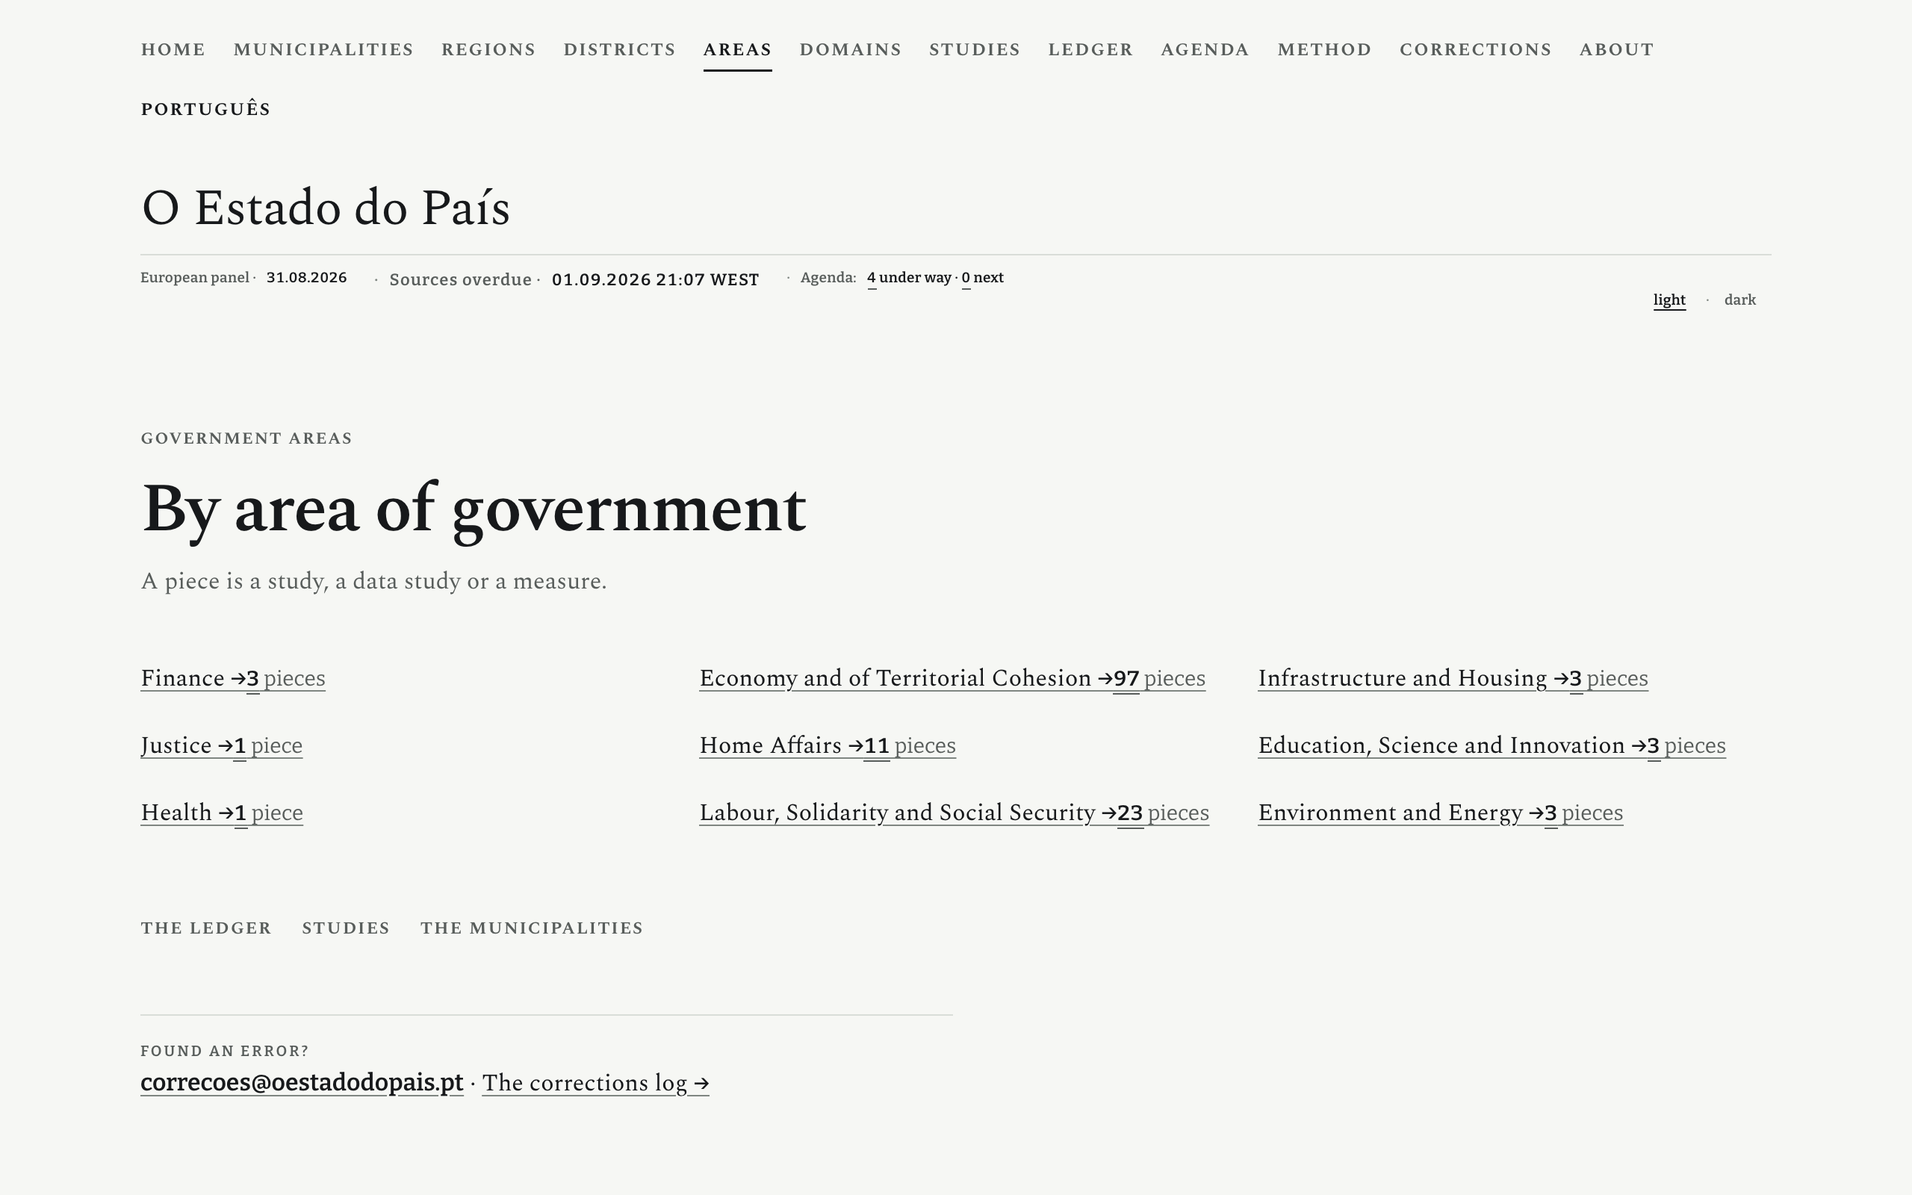
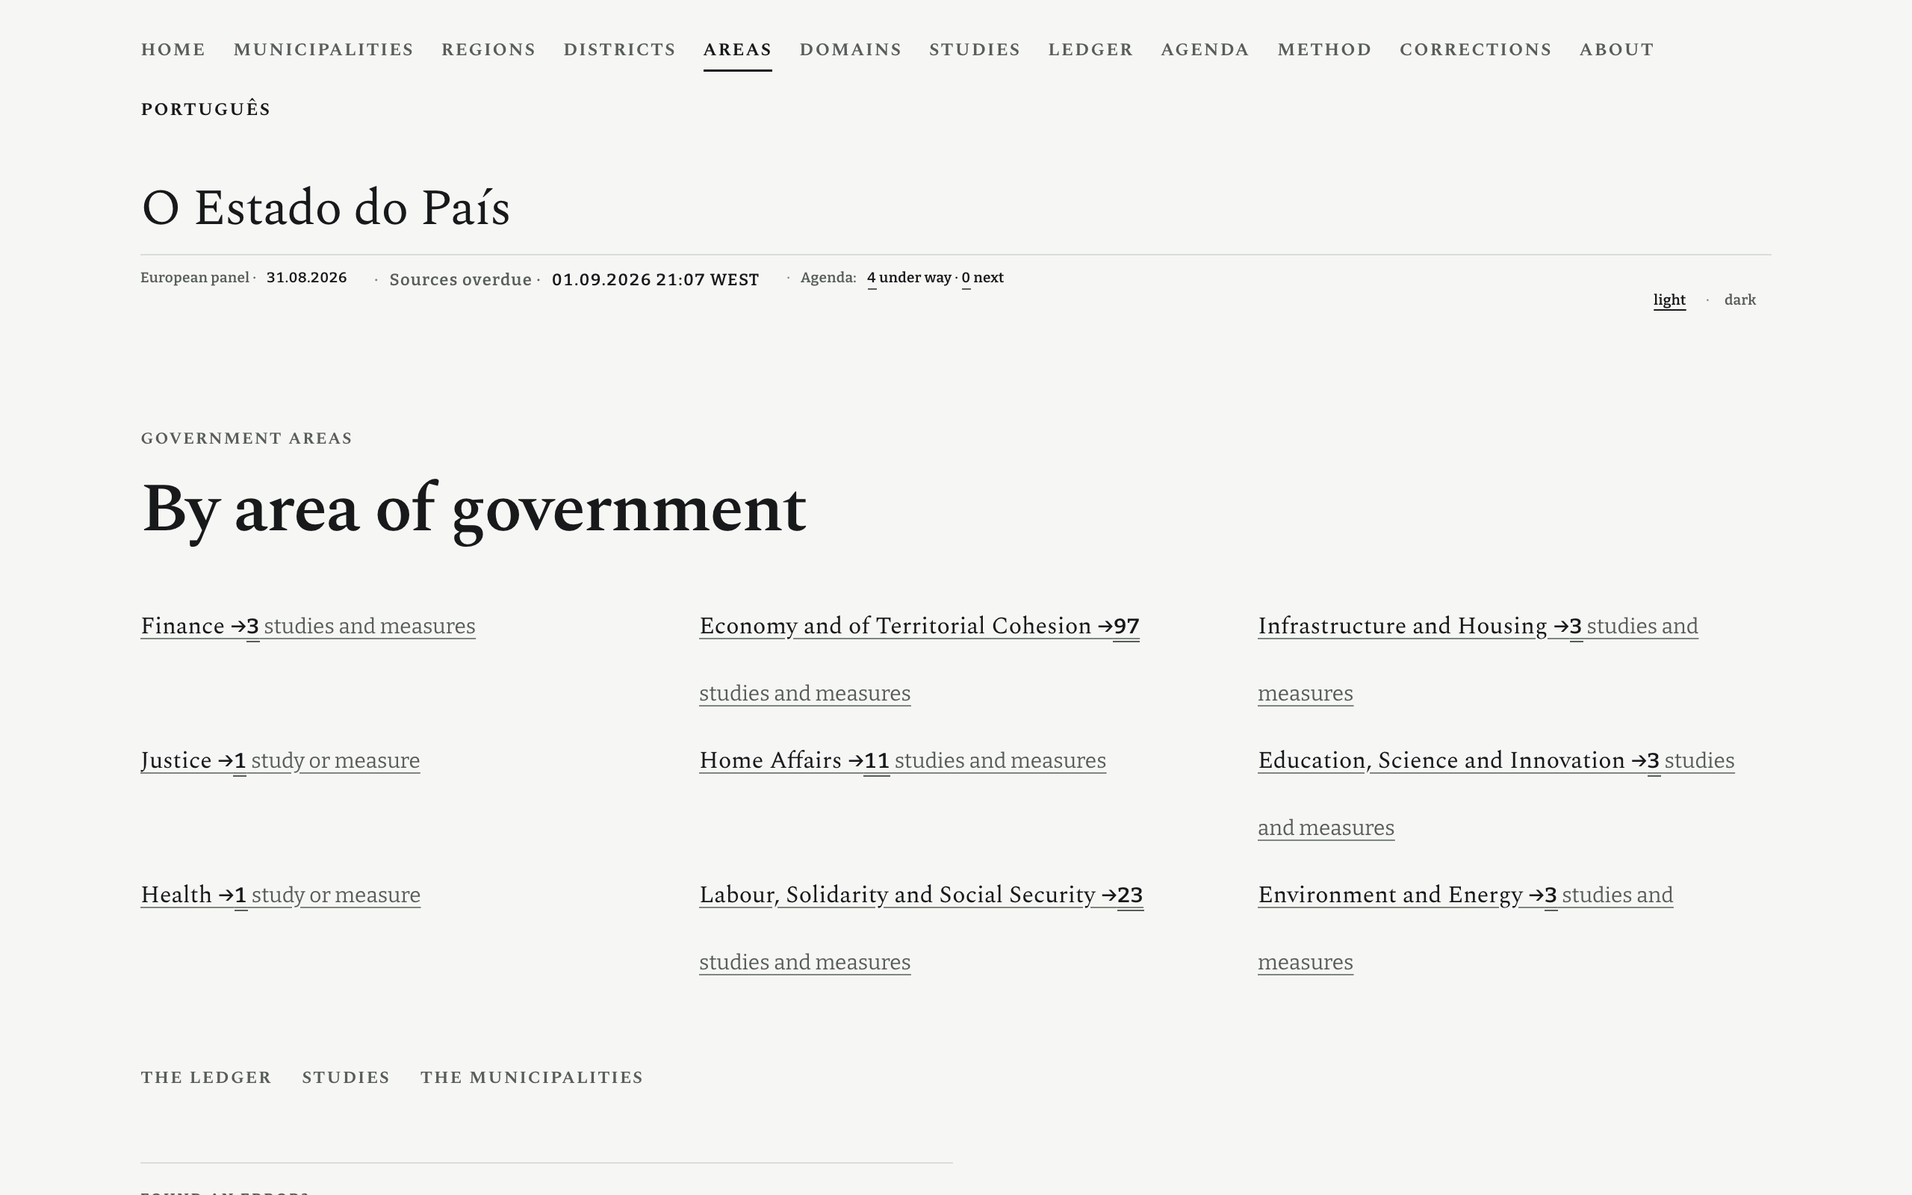
F1.4: «peça» sai do rótulo da contagem das áreas, pela §1.98
A `DECISIONS.md` §1.98, de 04.09.2026, fecha o vocabulário da casa: «estudo»
para um trabalho de autor, «medida» para uma medida, «linha do livro-razão» para
uma linha; «peça» e «indicador» saem. A decisão chegou a meio deste bloco e troca
a saída do item 5 do brief: em vez de definir a palavra na página onde ela se
conta, tira-se a palavra.

A contagem de cada área soma três famílias, os trabalhos, os estudos de dados e
as medidas, e as três dizem-se com duas palavras do vocabulário: «Saúde ·
6 estudos e medidas». No singular, «estudo ou medida», porque com uma só não se
sabe qual das duas é e escolher uma era adivinhar.

Saem com a palavra: a chave da definição, a classe da folha que a compunha e as
duas linhas do inventário que a declaravam. Nenhuma chave nova entra; duas que já
existiam mudam de texto, e o `CHAVES-EN.md` escreve o antes e o depois das duas
edições.

A célula I4 da régua muda com a decisão: media «a palavra tem definição na página
onde aparece» e passa a medir «a palavra não está no rótulo da contagem». As 16
ocorrências que ficam noutras páginas (o Método, o Sobre e três documentos
alojados) contam-se à parte e são do bloco F1.10, que faz a passagem por todo o
sítio.

As oito capturas do índice das áreas foram refeitas sobre esta construção.

Claude-Session: https://claude.ai/code/session_01X64Dqde6VdBwkxzdt92iEv

diff --git a/src/styles/area.css b/src/styles/area.css
@@ -32,15 +32,6 @@
   color: var(--muted);
 }
 
-/* A linha que define a palavra contada (bloco F1.4). É prosa, e compõe-se como
-   prosa: a mesma letra e o mesmo corpo da lede das outras páginas, sem caixa e
-   sem cor. */
-.areas-definicao {
-  margin-top: 10px;
-  max-width: 52ch;
-  color: var(--muted);
-}
-
 /* --------------------------------------------------------------- o índice */
 
 /* A mesma fila de nomes do índice das 29 unidades, com a altura de alvo da casa

diff --git a/design/especime-v3/medicoes/nomes-construtor.md b/design/especime-v3/medicoes/nomes-construtor.md
@@ -1,9 +1,9 @@
 # F1.4 · os nomes humanos, as datas, o índice do livro-razão · relatório do construtor
 
 *Ramo `nomes-2026-09-04`, tirado de `origin/main` em `86632082` e fundido com
-`8b2bbafc` (o F1.2b) antes de qualquer alteração; `1dbd1cef` (registo, sem
-código) e `741e4915` (o `engines.node` e a regra do Vercel) fundidos antes do
-empurrão. Construtor Claude Opus 5, 04.09.2026. O bloco
+`8b2bbafc` (o F1.2b) antes de qualquer alteração; `1dbd1cef` (registo),
+`741e4915` (o `engines.node` e a regra do Vercel) e `4624db04` (a §1.98, que
+fecha o vocabulário e muda o item 5 deste bloco) fundidos antes do empurrão. Construtor Claude Opus 5, 04.09.2026. O bloco
 é o F1.4 de `design/observatorio/BRIEF-F1.4-nomes-datas-indice.md`, e a origem é
 a auditoria de 02.09 (`AUDITORIA-2026-09-02.md`, linhas 66, 67, 68 e 72). Sem
 travessões na prosa.*
@@ -15,8 +15,8 @@ do diretor ou do motor.** Em números medidos sobre as duas construções:
 **484 entradas** do índice do livro-razão e das páginas de área deixaram de se
 chamar pelo nome da máquina, e **460 ganharam um nome humano**; **28 300 datas
 ISO à vista** passaram a **0**; o índice ganhou uma busca e as suas duas parcelas
-ganharam denominador; «peça» ganhou definição na página onde se conta; a página
-de cada uma das 29 unidades da Carta passa a dizer o que tem.
+ganharam denominador; «peça» saiu do rótulo da contagem das áreas, pela §1.98; a
+página de cada uma das 29 unidades da Carta passa a dizer o que tem.
 
 **Nenhum número novo entrou**, e não é uma afirmação: é uma comparação. O
 inventário dos valores selados e dos motivos declarados de todo o `dist/` foi
@@ -112,12 +112,20 @@ A lista dos campos que são datas está declarada em `src/lib/datas.mjs`
 tudo o que parece uma data converteria uma edição de documento («2025-12») e um
 localizador que a fonte escreveu assim.
 
-Três outros portões aprenderam a mesma regra, cada um com a sua cópia local
-(nunca a função do gabarito, que confirmaria a função e não o registo):
+Quatro outras conferências aprenderam a mesma regra, cada uma com a sua cópia
+local (nunca a função do gabarito, que confirmaria a função e não o registo):
 
 * `gate:html`, para a data de uma entrada do registo de correções
   (`data-correcao-campo="date"` passa do modo `exacto` ao modo `data`);
 * `gate:html`, para os campos do registo da agenda que SÃO uma data inteira;
+* `gate:html`, para uma chave da PROVA cujo valor é uma data. Hoje há uma,
+  `painel_reconferido_em`, e era a última data ISO à vista do sítio depois de as
+  outras 28 300 terem convertido: saía no Método, dentro do instrumento do
+  mecanismo e na linha da regra. O comentário do portão dizia «uma data é ISO», e
+  passa a dizer o que a §1.91 diz;
+* `gate:html`, para o mesmo valor DENTRO de um cartão de partilha, porque um
+  cartão é a mesma coisa vista de fora e duas grafias da mesma data seriam duas
+  casas;
 * `check:formas` F1, que ganhou os dois caminhos do instantâneo do alojamento.
 
 **O período de referência continua como a fonte o publica.** `dataDaCasa()`
@@ -175,17 +183,27 @@ vivem em `src/views/LivroView.astro`. As três que viviam no `Masthead`
 hoje são as duas leituras da agenda, que têm a sua página. Um ficheiro que o
 F1.2b também toca ficou por tocar, e é uma fusão a menos.
 
-### 2.5 · «Peça» definida (item 5)
+### 2.5 · «Peça» sai (item 5, com a §1.98 a decidir qual das duas saídas)
 
-A palavra ganha uma definição na página onde aparece («Uma peça é um trabalho,
-um estudo de dados ou uma medida.» · «A piece is a study, a data study or a
-measure.»), e as três palavras da definição são os três títulos de grupo que a
-página de uma área já usa. A definição não acrescenta vocabulário: desfaz.
+O brief dava duas saídas: definir a palavra na página onde aparece, ou tirá-la e
+pôr uma que o inventário já tenha. Este bloco tinha escolhido a primeira e
+escrito a definição; a **`DECISIONS.md` §1.98, de 04.09.2026, chegou a meio** e
+escolhe a segunda por todo o sítio: o vocabulário fechado da casa tem «estudo»
+para um trabalho de autor, «medida» para uma medida e «linha do livro-razão» para
+uma linha, e «peça» e «indicador» saem.
 
-A alternativa era tirar a palavra, e não havia por onde: a contagem é uma só
-sobre três famílias, e o inventário da voz não tem substantivo que as cubra às
-três. Trocar uma palavra por confirmar por outra por confirmar não era ganhar
-nada.
+**A contagem passa a dizer o que conta.** `areasComPecas()` soma três famílias:
+os trabalhos, os estudos de dados e as medidas de cada área. As três dizem-se com
+duas palavras do vocabulário, e é isso que o rótulo passa a dizer: «Saúde ·
+6 estudos e medidas». No singular, «estudo ou medida», porque com uma só não se
+sabe qual das duas é e escolher uma era adivinhar.
+
+**Duas chaves mudaram de texto, e nenhuma chave nova entrou.** `areas.contaUma` e
+`areas.contaMuitas` já existiam; a definição que este bloco tinha escrito
+(`areas.pecaDefinicao`) saiu com a classe do CSS e com as duas linhas do
+inventário. A passagem por todo o sítio (o Método, o Sobre, os documentos
+alojados) é do **bloco F1.10**, e a régua deste bloco conta essas 16 ocorrências
+à parte, para que não fiquem em silêncio.
 
 ### 2.6 · O marcador com um destino (item 6)
 
@@ -257,7 +275,7 @@ correu com `--contra` sobre o «antes», que é o que fecha o G10.
 | G1 | o nome de uma medida não é o identificador | **484 de 560 entradas** encabeçadas pelo identificador (129 no índice do livro-razão e 113 nas páginas de área, em cada edição); 76 com nome; 0 identificadores em metadado | **0 entradas** encabeçadas pelo identificador; **460 com nome**; 100 sem nome (26 no índice e 24 nas páginas de área, por edição: as derivadas e as que só têm o marcador por título de documento); **560 identificadores em metadado**; 0 nomes com a forma de um identificador |
 | G2 | datas ISO à vista | **28 300** elementos cujo texto inteiro é uma data ISO, mais 4 em prosa por marcar | **0** e **0** |
 | G3 | a busca do índice | **0** campos de busca em `/livro-razao` e `/en/ledger` | **1** em cada, dentro de um `<form method="get">` com destino, nome de campo e rótulo preso; e a filtrar no navegador: **149 → 25** com «divida», **0** com uma palavra que não existe, com o estado vazio aceso, nas duas edições |
-| G4 | «peça» com definição | **18** ocorrências como rótulo de contagem (nove por edição), **0** com definição na página | **20** ocorrências (as nove de cada edição mais a da própria definição), **todas** com a definição na mesma página |
+| G4 | «peça» com definição, ou 0 ocorrências | **18** ocorrências como rótulo de contagem (nove por edição) | **0**: a palavra saiu do rótulo pela §1.98 (§2.5). As 16 ocorrências das outras páginas (o Método, o Sobre, três documentos alojados) contam-se à parte na régua e são do bloco F1.10 |
 | G5 | as contagens com denominador | **0 de 2** parcelas com denominador, nas duas edições | **2 de 2** nas duas edições |
 | G6 | o marcador com um destino | **já verde**: 444 ligações do marcador em «pt» (todas para `/a-verificar`), 444 em «en» (todas para `/en/to-verify`), 78 marcadores dentro de um selo e 0 escritos sem marca | igual, e a cadeia escrita à mão saiu do gabarito antes de alguma vez se render |
 | G7 | sem transbordo a 390 nas páginas de linha | *(não medido: a régua nasceu com este bloco)* | **0 px** de transbordo em **60 páginas** medidas no WebKit a 390 × 664 (as 10 com o endereço mais longo, mais 50 a passo fixo sobre as restantes) |
@@ -376,6 +394,12 @@ sem o reescrever.
 | as capturas | `design/especime-v3/capturas/nomes-2026-09-04/`, 32 PNG (escala 2, 390 × 664 e 1 280, as duas edições do índice, de uma área, do índice das áreas, de uma linha e de uma unidade da Carta). A linha capturada é a do endereço mais longo, `pib-pc-acores-2024`, que é onde o item 7 se vê |
 | as chaves novas, PT e EN | `design/especime-v3/CHAVES-EN.md`, secção do bloco F1.4 |
 | as quatro cadeias novas do inventário | `design/especime-v3/INVENTARIO-FRASES.md`, bloco `nomes`, com a entrada em `critica/REVISOES-DO-INVENTARIO.md` |
+
+**A §1.98 chegou a meio do bloco e mudou uma decisão que já estava tomada.** O
+item 5 tinha a definição escrita, com a chave, a classe da folha e as duas linhas
+do inventário; o vocabulário fechado tirou a palavra e as quatro coisas saíram
+com ela. Fica dito aqui porque quem ler o diff vai ver a definição a entrar e a
+sair no mesmo ramo, e a razão não está no código: está na decisão.
 
 **A leitura a frio deste bloco ainda não correu**, e a entrada do inventário
 di-lo por escrito («por ler»). É a régua que fecha o que ela fecharia sozinha, e

diff --git a/design/especime-v3/CHAVES-EN.md b/design/especime-v3/CHAVES-EN.md
@@ -1098,18 +1098,27 @@ silêncio é a frase, e é o inventário que o impede.
 
 ### Bloco F1.4 · os nomes, as datas, o índice · 04.09.2026
 
-*Quatro chaves novas e nenhuma renomeada. Uma é um separador de duas letras entre
-dois algarismos declarados; duas são a mobília da busca do índice do livro-razão;
-a quarta é a definição da palavra que o índice das áreas conta. O botão da busca
-NÃO é uma chave nova: reutiliza `ambito.pesquisaSubmeter`, que é a palavra do
-botão da pesquisa dos concelhos e a mesma acção.*
+*Três chaves novas e duas mudadas de texto. Uma das novas é um separador de duas
+letras entre dois algarismos declarados; as outras duas são a mobília da busca do
+índice do livro-razão. O botão da busca NÃO é uma chave nova: reutiliza
+`ambito.pesquisaSubmeter`, que é a palavra do botão da pesquisa dos concelhos e a
+mesma acção.*
 
 | chave | pt | en | nota |
 |---|---|---|---|
 | `livro.contaDe` | de | of | o denominador das duas parcelas do índice do livro-razão: «330 de 2916 calculadas». Os dois algarismos são a mesma chave da prova rendida duas vezes, com a mesma marca e a mesma porta; esta cadeia é a única palavra da forma. Em inglês é «of» e não «out of», como o `inicio.faixa.de` do F1.1 e pela mesma razão: é a forma curta de uma legenda de aparelho |
 | `livro.buscaRotulo` | Procurar por nome, identificador ou fonte | Search by name, identifier or source | o rótulo do campo de busca do índice. Diz o que se escreve e por que campos a comparação se faz, que é o que um rótulo de campo tem de dizer. O inglês nomeia os mesmos três campos pelos nomes que o resto da edição inglesa já lhes dá («name», «identifier», «source») |
 | `livro.buscaSemResultado` | Nenhuma linha do índice tem essas palavras. | No row in this index matches those words. | o estado vazio da busca, que só o guião acende (IDENTIDADE §7). Diz «do índice» e não «do livro-razão», porque é o índice que a busca filtra: as 2 767 linhas dos concelhos saíram desta lista pela decisão D6 e têm índice próprio |
-| `areas.pecaDefinicao` | Uma peça é um trabalho, um estudo de dados ou uma medida. | A piece is a study, a data study or a measure. | a definição da palavra que a contagem de cada área usa. As três palavras são, nas duas edições, os três títulos de grupo que a página de uma área já escreve (`areas.trabalhosK`, `areas.conjuntosK`, `areas.medidasK`): a definição não traduz vocabulário novo, aponta para o que já está escrito |
+
+*A quarta chave que este bloco chegou a criar, `areas.pecaDefinicao`, não existe:
+a `DECISIONS.md` §1.98 chegou a meio do bloco e fechou o vocabulário sem «peça»,
+o que troca a saída do item 5 do brief (definir a palavra) pela outra (tirá-la).
+O que mudou foram duas chaves que já existiam, e o texto delas:*
+
+| chave | pt (antes → depois) | en (antes → depois) | nota |
+|---|---|---|---|
+| `areas.contaUma` | ` peça` → ` estudo ou medida` | ` piece` → ` study or measure` | a contagem de cada área soma os trabalhos, os estudos de dados e as medidas, e as três famílias dizem-se com duas palavras do vocabulário fechado. Com uma só não se sabe qual das duas é, e escolher uma era adivinhar |
+| `areas.contaMuitas` | ` peças` → ` estudos e medidas` | ` pieces` → ` studies and measures` | o plural das duas, na mesma ordem em que a página lista os grupos |
 
 **Nenhuma chave passou a `retirada`.** As duas contagens do índice do livro-razão
 mudaram de texto no `INVENTARIO-FRASES.md` (ganharam o denominador) e continuam

diff --git a/design/especime-v3/critica/REVISOES-DO-INVENTARIO.md b/design/especime-v3/critica/REVISOES-DO-INVENTARIO.md
@@ -55,7 +55,7 @@ leu **só o diff do inventário**. É essa a leitura que esta tabela regista.
 | dominio | 12 | por ler | a segunda passagem do bloco F1.2, Claude Sonnet 5, 03.09.2026, sobre a leitura a frio do Codex (`design/especime-v3/critica/2026-09-03-codex-leitura-f12-dominio.md`, Blocking 2, 3, 4, Major 6, 7, 8, 9, 11, 13, Minor 14); a leitura cruzada faz-se antes da fusão. As doze linhas são a ressalva visível de T1 e de T5 (o marcador da casa por extenso, porque o parágrafo que o leva não tem nenhuma outra marca de origem lá dentro), o molde de pontuação da frase da barra do ganho contra o país sem os seus nomes e valores, a nota da escala do mapa do ganho, e os três rótulos da tabela dos 308 valores dentro da própria página (a alternativa em texto do mapa, Major 7) com o rótulo do `<details>` que a abre. O relatório está na secção «Segunda passagem» de `design/especime-v3/medicoes/dominio-construtor.md` |
 | indice-sonnet | 0 | leitura a frio (design/especime-v3/critica/2026-09-03-codex-leitura-f19-indice.md, que o lugar de direção guarda na árvore principal e não neste ramo, e por isso esta coluna não o nomeia entre plicas: a conferência do portão exige que um ficheiro nomeado assim exista aqui) sobre o ramo `indice-2026-09-03` (segunda passagem, Claude Sonnet 5, 03.09.2026), Major 7: a leitura apanhou a nota de 25.08 sobre «Subir ↑» lida como dispensa de o declarar, quando ela só explica porque é que a régua automática não o lê. Esta passagem NÃO acrescenta linha nenhuma à tabela: «Subir» / «Back to top» não pode ser `viva` (o seu texto vive todo dentro de `<a>`, que as medidas 8 e 9 excluem nos dois sentidos, e uma linha `viva` assim falha `check:voz`) e «Secção {n} de {total}» / «Section {n} of {total}» é origem declarada (`data-registo-posicao`), como o `{ref}` da grelha da voz. As duas ficam nomeadas em prosa, na nova secção do inventário, com a razão de cada uma escrita por extenso |
 | porta | 4 | por ler | o bloco F1.1 «A porta da frente», 03.09.2026, ramo `porta-2026-09-03` (construtor Claude Opus 5); a leitura cruzada faz-se antes da fusão. Quatro cadeias: as frases de contexto dos dois painéis, nas duas edições (achado C6 e decisão 3.4 da auditoria de UX de 25.08). Quatro linhas passaram a «retirada» nas secções onde viviam: o rótulo «Portugal · país» e a gémea inglesa, e o nome da gaveta da busca nas duas edições. O relatório do bloco está em `design/especime-v3/medicoes/porta-construtor.md` |
-| nomes | 6 | por ler · a leitura a frio deste bloco (F1.4) ainda não correu; as linhas são as duas contagens do índice do livro-razão com o denominador, a frase do índice de uma unidade da Carta nas duas edições e o rótulo da busca nas duas | Claude Opus 5, 04.09.2026, bloco F1.4 (os nomes, as datas, o índice) |
+| nomes | 4 | por ler · a leitura a frio deste bloco (F1.4) ainda não correu; as quatro linhas são as duas contagens do índice do livro-razão com o denominador e o estado vazio da busca, nas duas edições | Claude Opus 5, 04.09.2026, bloco F1.4 (os nomes, as datas, o índice) |
 
 ## As duas colunas novas de 27.08.2026 (I74)
 

diff --git a/design/especime-v3/INVENTARIO-FRASES.md b/design/especime-v3/INVENTARIO-FRASES.md
@@ -839,8 +839,6 @@ exclusão que a subetapa 3c escreveu para a lista por distritos.
 | conteudo | 2916 claims · 330 of 2916 calculated · 2767 of 2916 municipality rows | nomes | viva | — |
 | navegacao | Nenhuma linha do índice tem essas palavras. | nomes | viva | — |
 | navegacao | No row in this index matches those words. | nomes | viva | — |
-| conteudo | Uma peça é um trabalho, um estudo de dados ou uma medida. | nomes | viva | — |
-| conteudo | A piece is a study, a data study or a measure. | nomes | viva | — |
 | autorreferencia | O limite é fixado no artigo 52.º da Lei n.º 73/2013: uma vez e meia a média da receita corrente líquida dos três anos anteriores. É a lei que o define, não este sítio. | grelha-2 | retirada | saiu com o G6 da grelha da voz, que tirou o método das páginas do leitor: as ressalvas da página do concelho com as secções que as guardavam, os rótulos que diziam como o texto foi feito, e a nota da lei do limite da dívida (`14a339d`, 27.08) |
 | autorreferencia | The limit is set by article 52.º of Lei n.º 73/2013: one and a half times the three-year average of net current revenue. The law defines it, not this site. | grelha-2 | retirada | saiu com o G6 da grelha da voz, que tirou o método das páginas do leitor: as ressalvas da página do concelho com as secções que as guardavam, os rótulos que diziam como o texto foi feito, e a nota da lei do limite da dívida (`14a339d`, 27.08) |
 
